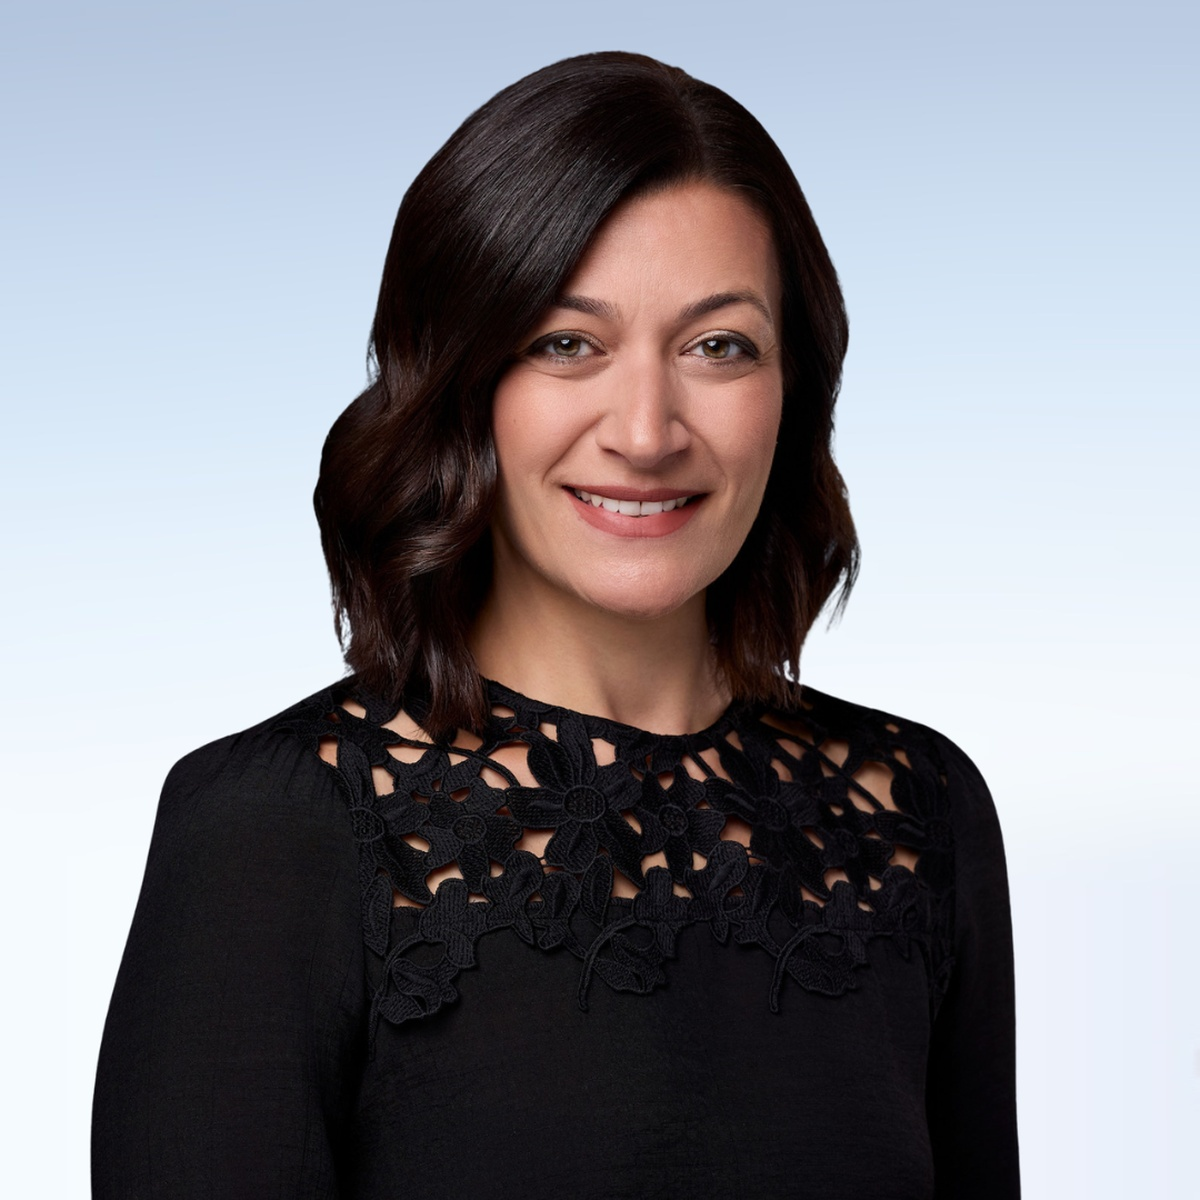
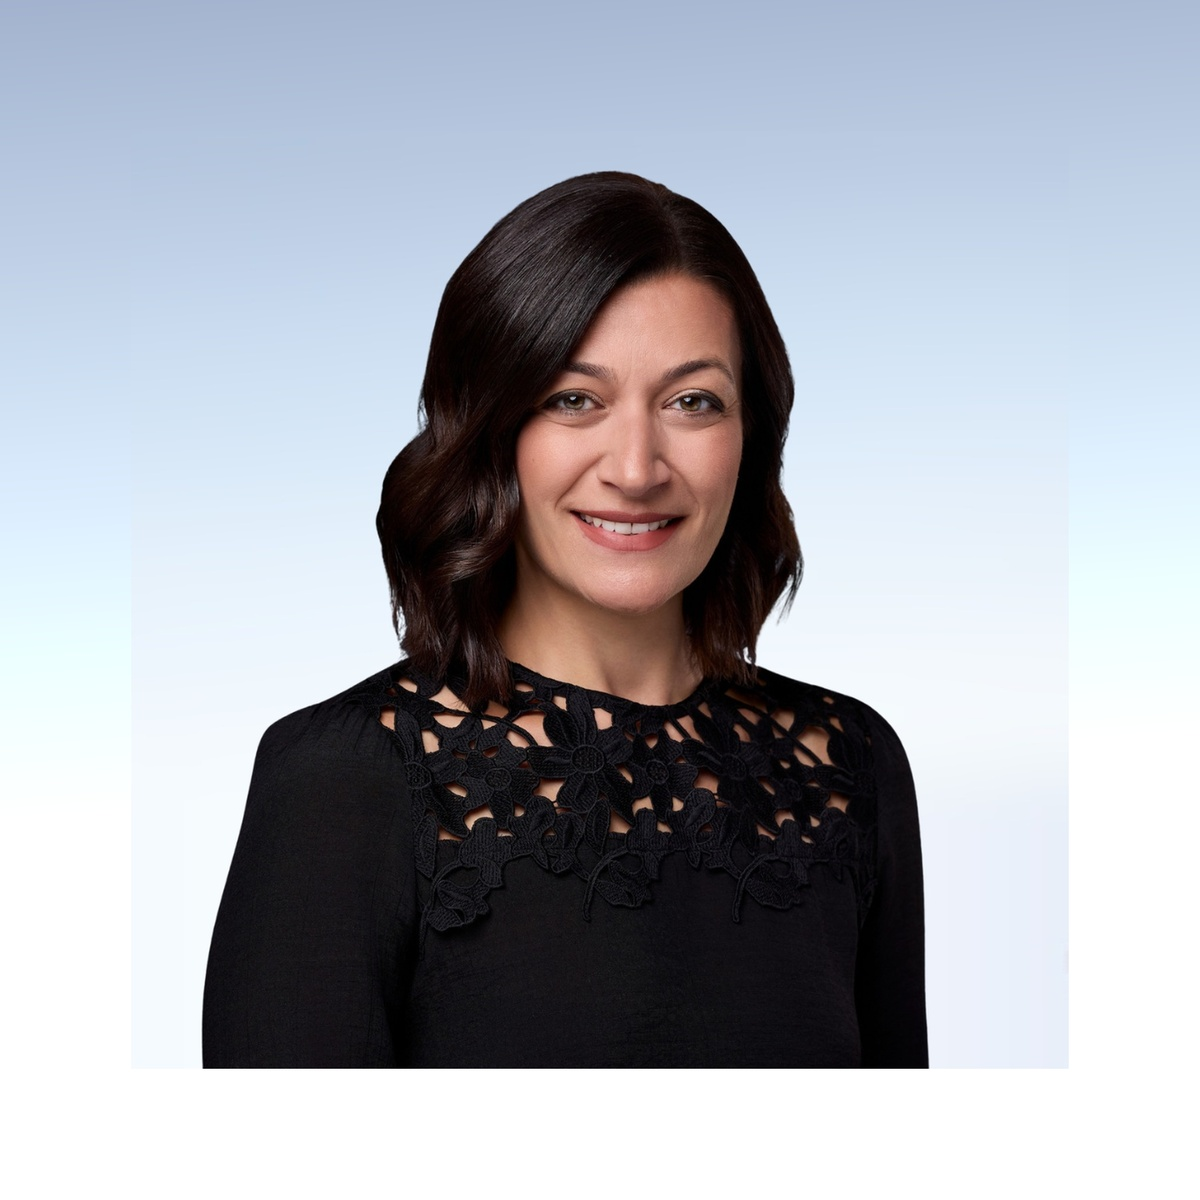
Zoom out Artineh's photo to match team framing; reformat her role onto two lines without comma

Changed region(s): [[0.0617, 0.0308, 0.8633, 1.0], [0.9867, 0.8633, 1.0, 0.8942], [0.6475, 0.74, 0.6783, 0.7708]]

diff --git a/team.html b/team.html
@@ -209,7 +209,7 @@
         <div class="team-card">
           <div class="team-photo"><img src="assets/artineh-samkian.jpg" alt="Artineh Samkian, Ph.D."></div>
           <h3><a href="https://rossier.usc.edu/faculty-research/directory/artineh-samkian/" target="_blank" rel="noopener" class="name-link">Artineh Samkian, Ph.D.</a></h3>
-          <p class="role">Professor of Clinical Education, USC Rossier</p>
+          <p class="role">Professor of Clinical Education<br>USC Rossier</p>
         </div>
         <div class="team-card">
           <div class="team-photo"><svg viewBox="0 0 24 24" fill="none" stroke="currentColor" stroke-width="1.6"><circle cx="12" cy="8" r="4"/><path d="M4 20c0-4.4 3.6-7 8-7s8 2.6 8 7"/></svg></div>
